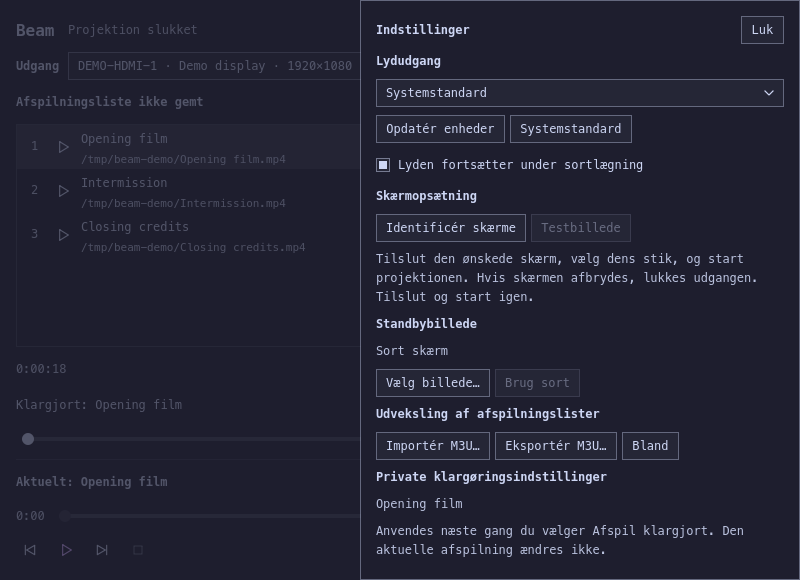
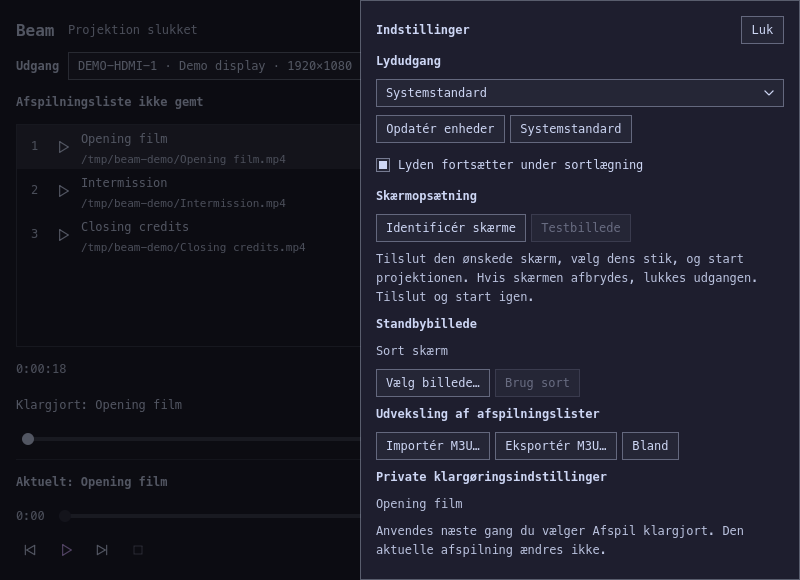
Darken modal backdrops in both themes

diff --git a/src/Main.qml b/src/Main.qml
@@ -14,6 +14,7 @@ ApplicationWindow {
     Material.accent: theme.accent; Material.primary: theme.colors.background
     Material.foreground: theme.colors.foreground; Material.roundedScale: theme.radius
     property bool allowClose: false
+    readonly property color modalScrim: "#99000000"
     function titleAt(i) { return i >= 0 && i < backend.playlist.length ? backend.playlist[i].title : qsTr("No media selected") }
     function openPlaylist() { if (backend.dirty) discard.open(); else backend.choosePlaylist("open") }
     Shortcut { sequence: "?"; context: Qt.ApplicationShortcut; onActivated: help.open() }
@@ -195,7 +196,7 @@ ApplicationWindow {
     Drawer {
         id: settings; objectName: "settings"; edge: Qt.RightEdge; width: Math.min(440,win.width-40); height: win.height; padding: 16; leftPadding: 16; rightPadding: 16; topPadding: 16; bottomPadding: 16
         background: Rectangle { color: theme.colors.background; border.color: Qt.alpha(theme.colors.foreground,.4) }
-        Overlay.modal: Rectangle { color: Qt.alpha(theme.colors.background,.7) }
+        Overlay.modal: Rectangle { color: win.modalScrim }
         contentItem: ScrollView {
             id: settingsScroll; objectName: "settingsScroll"; clip: true; contentWidth: availableWidth
             ColumnLayout {
@@ -249,17 +250,20 @@ ApplicationWindow {
         }
     }
     Popup {
+        Overlay.modal: Rectangle { color: win.modalScrim }
         id: discard; anchors.centerIn: parent; width: Math.min(460,win.width-48); modal: true; focus: true; padding: 16
         background: Rectangle { color: theme.colors.background; border.color: Qt.alpha(theme.colors.foreground,.4) }
         ColumnLayout { anchors.fill: parent; Label { text: qsTr("Unsaved playlist changes"); font.weight: Font.DemiBold } Label { Layout.fillWidth: true; wrapMode: Text.WordWrap; text: qsTr("Save first, or discard changes when opening another playlist.") } RowLayout { BeamButton { text: qsTr("Save…"); onClicked: { discard.close(); backend.choosePlaylist("save") } } BeamButton { text: qsTr("Discard and open…"); onClicked: { discard.close(); backend.choosePlaylist("open-discard") } } BeamButton { text: qsTr("Cancel"); onClicked: discard.close() } } }
     }
     Popup {
+        Overlay.modal: Rectangle { color: win.modalScrim }
         id: quitConfirm; objectName: "quitConfirm"; anchors.centerIn: parent; width: Math.min(460,win.width-48); modal: true; focus: true; padding: 16
         background: Rectangle { color: theme.colors.background; border.color: Qt.alpha(theme.colors.foreground,.4) }
         ColumnLayout { anchors.fill: parent; Label { text: qsTr("Save named playlist before quitting?") } Label { Layout.fillWidth: true; wrapMode: Text.WordWrap; text: qsTr("Session recovery is saved automatically. The named playlist has unsaved changes.") } RowLayout { BeamButton { text: qsTr("Save…"); onClicked: { quitConfirm.close(); backend.choosePlaylist("save") } } BeamButton { objectName: "quitWithoutSaving"; text: qsTr("Quit"); onClicked: { win.allowClose = true; quitConfirm.close(); win.close() } } BeamButton { text: qsTr("Cancel"); onClicked: quitConfirm.close() } } }
     }
     Popup {
-        id: help; anchors.centerIn: parent; width: Math.min(500,win.width-48); modal: true; focus: true; padding: 16
+        Overlay.modal: Rectangle { color: win.modalScrim }
+        id: help; objectName: "shortcuts"; anchors.centerIn: parent; width: Math.min(500,win.width-48); modal: true; focus: true; padding: 16
         background: Rectangle { color: theme.colors.background; border.color: Qt.alpha(theme.colors.foreground,.4) }
         ColumnLayout { anchors.fill: parent; spacing: 8
             Label { text: qsTr("Keyboard shortcuts"); font.pixelSize: theme.fontSize+2 }

diff --git a/src/main.cpp b/src/main.cpp
@@ -104,10 +104,12 @@ int main(int argc, char **argv) {
     qobject_cast<QQuickWindow *>(engine.rootObjects().first())
         ->resize(800, 740);
   }
-  if (qEnvironmentVariableIsSet("BEAM_CAPTURE_SETTINGS"))
+  if (qEnvironmentVariableIsSet("BEAM_CAPTURE_SETTINGS") ||
+      qEnvironmentVariableIsSet("BEAM_CAPTURE_SHORTCUTS"))
     QTimer::singleShot(200, &app, [&] {
       auto *drawer =
-          engine.rootObjects().first()->findChild<QObject *>("settings");
+          engine.rootObjects().first()->findChild<QObject *>(
+              qEnvironmentVariableIsSet("BEAM_CAPTURE_SHORTCUTS") ? "shortcuts" : "settings");
       if (drawer)
         QMetaObject::invokeMethod(drawer, "open");
     });

diff --git a/README.md b/README.md
@@ -85,6 +85,6 @@ Session data is written atomically to `~/.local/share/beam/session.json`. Existi
 
 `bin/test` uses generated media, a private session bus and headless mpv to verify cue/live separation, identities, persistence/migration, device/track/aspect/volume settings, blackout, preview cleanup, display recovery, MPRIS and actual QML keyboard/mouse reorder. It also verifies safe setup against temporary configurations. Physical multi-monitor placement and speaker routing require hardware checks, detailed in the status record.
 
-For isolated QA, `BEAM_STATE_FILE`, `BEAM_LANGUAGE_FILE` and `BEAM_THEME_DIRECTORY` override source paths. `BEAM_CAPTURE=/absolute/file.png` captures the controller and exits; `BEAM_CAPTURE_COMPACT=1`, `BEAM_CAPTURE_PREVIEW=1` and `BEAM_CAPTURE_SETTINGS=1` select QA states. Screenshots contain synthetic demonstration media only.
+For isolated QA, `BEAM_STATE_FILE`, `BEAM_LANGUAGE_FILE` and `BEAM_THEME_DIRECTORY` override source paths. `BEAM_CAPTURE=/absolute/file.png` captures the controller and exits; `BEAM_CAPTURE_COMPACT=1`, `BEAM_CAPTURE_PREVIEW=1` `BEAM_CAPTURE_SETTINGS=1`, and `BEAM_CAPTURE_SHORTCUTS=1` select QA states. Screenshots contain synthetic demonstration media only.
 
 Licensed under MIT. Theme/language infrastructure is adapted from Omarchy app templates (Omacut / Monologue, David Heinemeier Hansson).

diff --git a/docs/specs/beam-0.2-status.md b/docs/specs/beam-0.2-status.md
@@ -49,3 +49,5 @@ Reviewed playback/cue isolation, playlist persistence, process cleanup, MPRIS, i
 The mpv property-query test helper now matches request IDs instead of treating the first received line (which can be an event) as a command reply. Final local build passed; the full suite passed with 11 Qt checks and 3 setup checks after these fixes. Physical display placement, blackout transitions and speaker routing remain the user's hardware acceptance checks.
 
 User acceptance reports uncovered two further issues before publication. The Quit button now explicitly clears the close guard before closing the window; the QML mouse test verifies closing a dirty playlist without saving. Display identification now uses a separate mpv process for each connector, with both screen-name and fs-screen-name set, because Qt top-level screen hints placed both cards on one monitor. Tests verify two distinct connector arguments and process cleanup; actual compositor placement remains a hardware acceptance check. The full suite passed again after both fixes (11 Qt / 3 setup).
+
+Follow-up visual review replaced Material's bright modal scrims with a shared 60% black backdrop for shortcuts, settings and playlist dialogs. Rendered shortcuts in both light/dark themes and refreshed the settings screenshot; modal surfaces retain the active theme palette.

diff --git a/DESIGN.md b/DESIGN.md
@@ -149,3 +149,5 @@ The cue strip has title, start seconds, Play cue and a private scrubber. Live ti
 Occasional controls live in a compact, scrollable right-hand settings drawer (maximum 440 pixels): audio destination/blackout policy, display setup, standby image, playlist exchange, and private presentation settings. Opening the drawer performs no playback action. Input fields share square outlined geometry and 28-pixel height. Unsaved named-playlist changes use a protected save/discard decision before loading another playlist; session recovery remains automatic.
 
 All operational additions inherit palette/font roles and are translatable. Media/identify surfaces deliberately use black/white for audience confidence and screen legibility. Normal motion remains native control feedback; no decorative animation is added.
+
+Modal backdrops use 60% black (`#99000000`) in both themes, including the settings drawer, shortcuts, and playlist confirmation dialogs. The dialog surface keeps the active theme palette.
